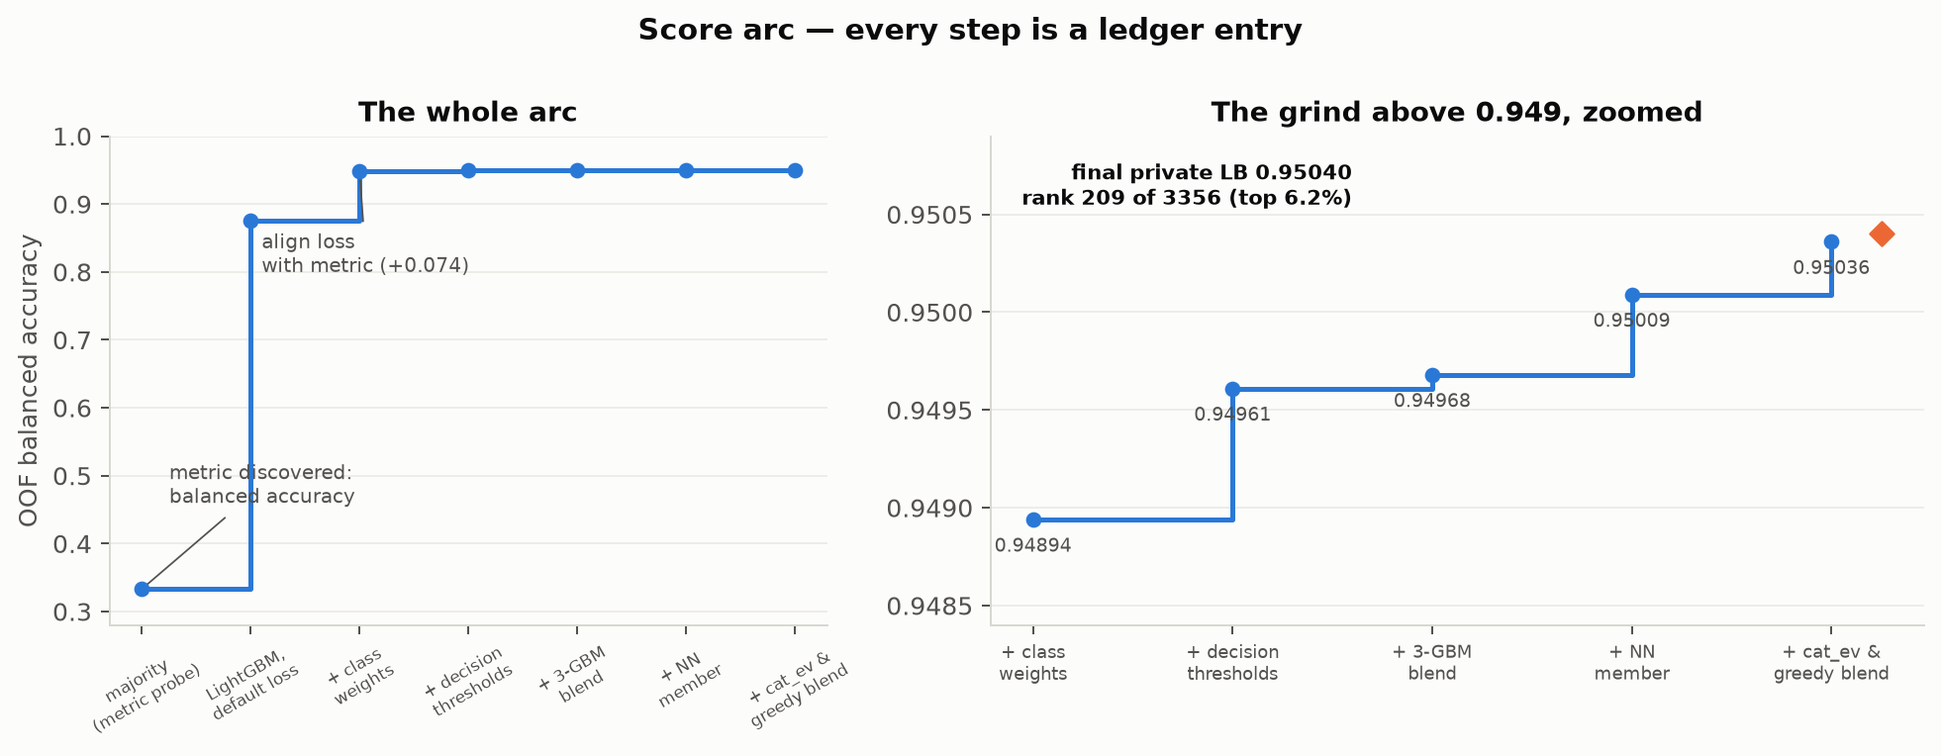
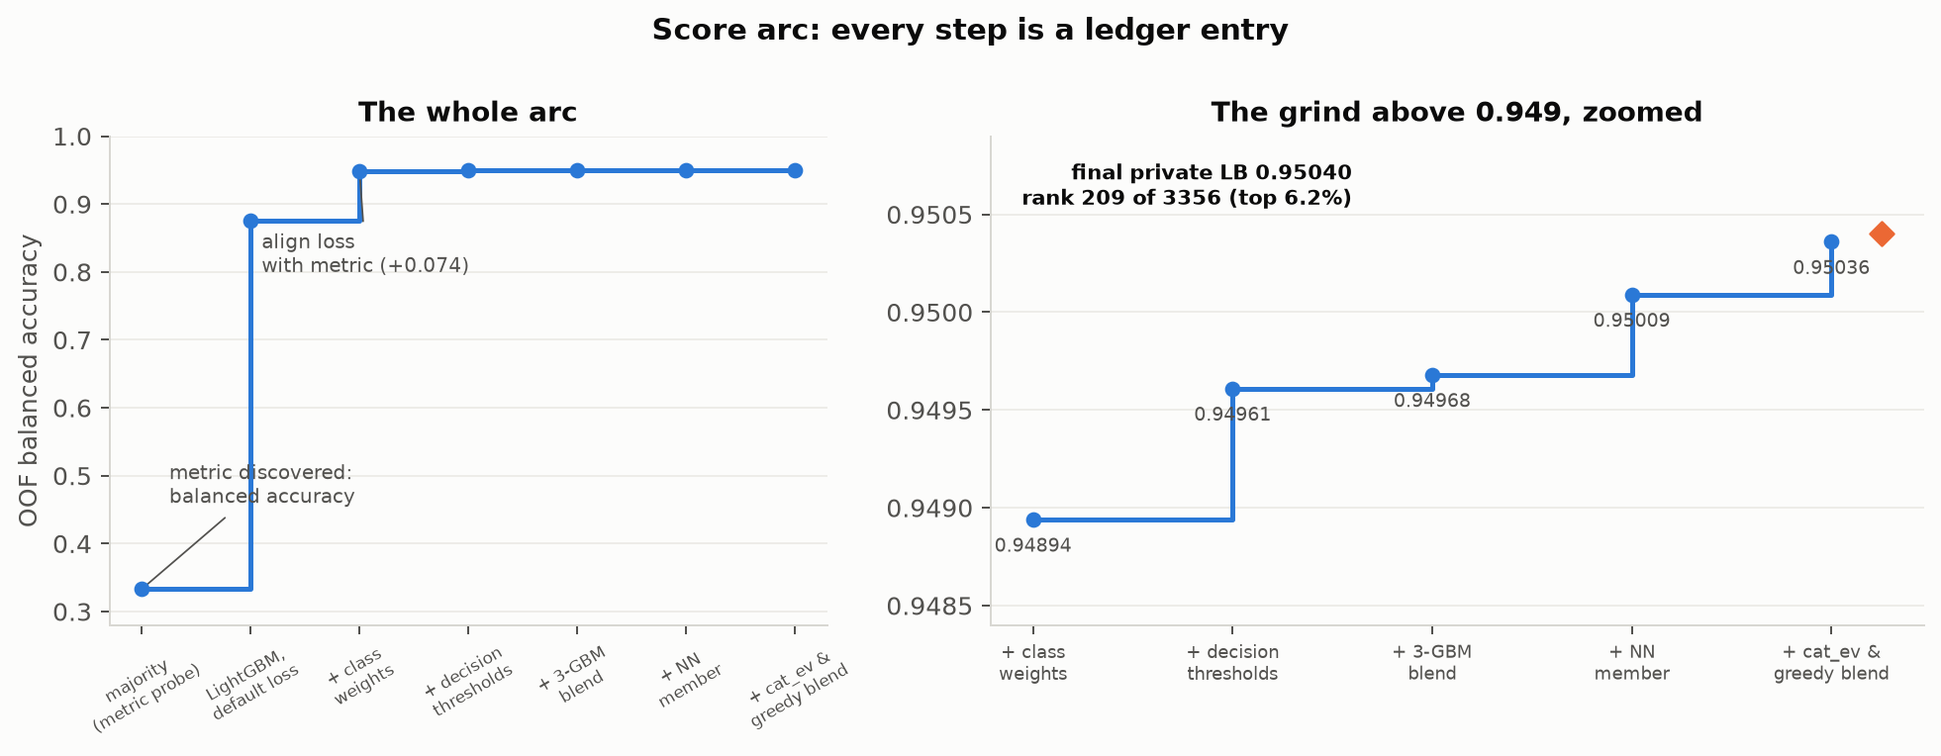
Tighten prose in README, WORKFLOW, and ledger

Changed region(s): [[0.3111, 0.0, 0.6843, 0.0602]]

diff --git a/src/make_figures.py b/src/make_figures.py
@@ -73,7 +73,7 @@ def score_arc():
     a2.set_title('The grind above 0.949, zoomed')
     a2.grid(axis='y', color='#ebeae6', lw=0.7, zorder=0)
 
-    fig.suptitle('Score arc — every step is a ledger entry', fontsize=12,
+    fig.suptitle('Score arc: every step is a ledger entry', fontsize=12,
                  fontweight='bold', y=1.0)
     fig.tight_layout()
     fig.savefig(ASSETS / 'score-arc.png', bbox_inches='tight')

diff --git a/README.md b/README.md
@@ -1,4 +1,4 @@
-# Kaggle Playground S6E7 — Predicting Student Health Risk
+# Kaggle Playground S6E7: Predicting Student Health Risk
 
 ![Kaggle](https://img.shields.io/badge/Kaggle-Playground_S6E7-20BEFF?logo=kaggle&logoColor=white)
 ![Private LB](https://img.shields.io/badge/private_LB-0.95040-2a78d6)
@@ -11,58 +11,59 @@ A hypothesis-driven run at [Kaggle Playground S6E7](https://www.kaggle.com/compe
 3-class classification of student health condition (86% / 8.4% / 5.8% class split, 690k rows,
 13 features with heavy missingness), scored by **balanced accuracy**.
 
-**Final: private LB 0.95040 — rank 209 of 3,356 teams (top 6.2%) — with every point of
-the score accounted for in an [experiment ledger](experiments.md).** Thirteen logged
-experiments, five falsified hypotheses, seven submissions, and a cross-validation setup
-that never missed the leaderboard, public or private, by more than 0.003. When the
-private leaderboard resolved, the final CV estimate (0.95036) was off by 0.00004, and
-the entry climbed 386 places past public-leaderboard chasers.
+**Final: private LB 0.95040, rank 209 of 3,356 teams (top 6.2%), with every point of the
+score accounted for in an [experiment ledger](experiments.md).** Thirteen logged
+experiments, five falsified hypotheses, seven submissions. Our cross-validation never
+missed either leaderboard by more than 0.003; at the private reveal it predicted the
+final score within 0.00004, and we climbed 386 places past teams tuned to the public
+board.
 
 ![Score arc](assets/score-arc.png)
 
 | Stage | Score | What earned it |
 |---|---|---|
-| Majority baseline (metric probe) | 0.333 | Discovered the metric is balanced accuracy, not accuracy |
+| Majority baseline (metric probe) | 0.333 | Discovered the real metric: balanced accuracy |
 | LightGBM, default loss | 0.875 | A GBM with sane defaults |
 | + class-weighted loss | 0.949 | **Align objective with metric** (+0.074, the biggest lever) |
-| + features / + tuning | 0.949 | Two measured zeros — honest redirects, not failures |
+| + features / + tuning | 0.949 | Two measured zeros that redirected effort |
 | + per-class thresholds | 0.9496 | **Align decision rule with metric** |
 | + cross-implementation blend | 0.9498 | Implementation diversity (CatBoost, HistGradientBoosting) |
 | + torch NN member | 0.9501 | Function-class diversity |
 | + CatBoost-native exact-value TE + greedy blend | **0.9505** | The one verified feature edge, encoded the tree-safe way |
-| Private leaderboard reveal | **0.95040** | Rank 209 of 3,356 — up 386 places on the shakeup, 0.00004 from the CV estimate |
+| Private leaderboard reveal | **0.95040** | Rank 209 of 3,356: up 386 places on the shakeup, 0.00004 from the CV estimate |
 
 ## The method
 
-**Probe the metric before trusting it.** The first submission predicted the majority class
-for every row — not as a throwaway, but as an experiment: plain accuracy predicted a 0.859
-score, balanced accuracy predicted exactly ⅓. It scored 0.33333. One submission falsified
-the wrong belief and reshaped the entire strategy (notebook 01, §9).
+**Probe the metric before trusting it.** The first submission predicted the majority
+class for every row. This was an experiment with two competing predictions: 0.859 under
+plain accuracy, ⅓ under balanced accuracy. It scored 0.33333. One cheap submission
+corrected our assumed metric and reshaped the strategy (notebook 01, §9).
 
-**Treat cross-validation as an instrument, and calibrate it.** One fixed 5-fold stratified
-assignment, persisted to disk and asserted identical in every later notebook. Every model
-reports out-of-fold balanced accuracy on those folds; the fold spread sets the noise floor
-(±0.0005) that decides what counts as a real improvement. The instrument passed its final
-test at the private-leaderboard reveal: 0.95040 against a CV estimate of 0.95036, while
-teams that had tuned against the public leaderboard fell past us on the way down.
+**Treat cross-validation as an instrument, and calibrate it.** We fixed one 5-fold
+stratified assignment, persisted it to disk, and asserted it identical in every later
+notebook. Every model reports out-of-fold balanced accuracy on those folds. We measured
+the noise floor (±0.0005) from the fold spread and used it as the bar for a real
+improvement. The CV held at the private-leaderboard reveal: 0.95040 against an estimate
+of 0.95036, while teams tuned against the public leaderboard dropped below us.
 
 ![CV vs LB calibration](assets/cv-lb-calibration.png)
 
 **Run everything as a ledger.** Every idea enters [experiments.md](experiments.md) as
-*hypothesis → one change → CV → keep/drop*. Keepers must clear the noise floor; drops are
-logged with the same care because a falsified hypothesis about this dataset is knowledge.
-The ledger's two zero-rows (feature engineering, hyperparameter tuning) redirected effort
-to where the score actually lived: alignment and diversity.
+*hypothesis → one change → CV → keep/drop*. Keepers must clear the noise floor. We log
+drops with the same care, because a falsified hypothesis about this dataset is
+knowledge. After feature engineering and hyperparameter tuning both measured zero, we
+spent the remaining effort on alignment and diversity.
 
-**Alignment before sophistication.** The two largest gains were not clever models — they
-were making the training loss (+0.074, class weights) and the decision rule (+0.0014,
-per-class thresholds fit on OOF probabilities) match the metric. By the final ensemble,
-the threshold search converged to exactly 1.0: alignment had migrated into the members.
+**Alignment before sophistication.** The two largest gains came from making the
+training loss (+0.074, class weights) and the decision rule (+0.0014, per-class
+thresholds fit on OOF probabilities) match the metric. By the final ensemble the
+threshold search converged to 1.0; the members themselves already carried the
+alignment.
 
-**Then buy diversity — and price it honestly.** Blending only pays when members make
+**Then buy diversity, and price it honestly.** Blending pays when members make
 different mistakes. The final greedy-selected committee weights quality *and*
-decorrelation; two "failed" models (a LightGBM hurt by naive target encoding, weight 0.01;
-a below-par NN, weight 0.15) still earn places on decorrelation value alone.
+decorrelation; two "failed" models (a LightGBM hurt by naive target encoding, weight
+0.01; a below-par NN, weight 0.15) kept their places on decorrelation value alone.
 
 ![Member correlations](assets/member-correlations.png)
 
@@ -70,32 +71,32 @@ a below-par NN, weight 0.15) still earn places on decorrelation value alone.
 
 | Notebook | One-line finding |
 |---|---|
-| [01 — EDA + baseline](notebooks/01-eda.ipynb) | `stress_level` nearly determines the minority classes; `bmi` missingness is itself a signal; the baseline probe exposes the real metric |
-| [02 — CV harness](notebooks/02-baseline-cv.ipynb) | The metric defines the model: class weights trade 5 points of majority recall for 12–15 on each minority — plain accuracy hates it, balanced accuracy pays +0.074 |
+| [01 — EDA + baseline](notebooks/01-eda.ipynb) | `stress_level` nearly determines the minority classes; `bmi` missingness is a signal; the baseline probe exposes the real metric |
+| [02 — CV harness](notebooks/02-baseline-cv.ipynb) | Class weights trade 5 points of majority recall for 12–15 on each minority; plain accuracy punishes the trade, balanced accuracy pays +0.074 |
 | [03 — Feature experiments](notebooks/03-features.ipynb) | Five hypotheses, zero keepers; naive imputation destroys 4 points by erasing the missingness signal |
-| [04 — Tuning, thresholds, ensemble](notebooks/04-final.ipynb) | Tuning loses to defaults, but its better-*ranked* probabilities win once thresholds are applied — compare models under the deployed decision rule |
-| [05 — More members, stacking](notebooks/05-stacking.ipynb) | Implementation diversity beats parameter search; diversity only pays above a quality floor |
-| [06 — NN + competitor intelligence](notebooks/06-headroom.ipynb) | Exact-value target encoding: −0.0044 on a tree, +0.0001 on an MLP — features and function classes are a joint hypothesis |
+| [04 — Tuning, thresholds, ensemble](notebooks/04-final.ipynb) | Tuning loses to defaults, but its better-*ranked* probabilities win once thresholds apply; compare models under the deployed decision rule |
+| [05 — More members, stacking](notebooks/05-stacking.ipynb) | Implementation diversity beats parameter search; diversity pays only above a quality floor |
+| [06 — NN + competitor intelligence](notebooks/06-headroom.ipynb) | Exact-value target encoding: −0.0044 on a tree, +0.0001 on an MLP; features and function classes are a joint hypothesis |
 | [07 — Final push](notebooks/07-final-push.ipynb) | CatBoost's ordered target statistics encode the same features *safely* (+0.0006, best single model); greedy selection prices an 8-member committee |
 
 ## Lessons the ledger paid for
 
-1. **Probe the metric before trusting it.** One "dumb" submission distinguished accuracy from balanced accuracy and reshaped the whole strategy.
-2. **Alignment beats sophistication.** Loss↔metric (class weights) and decision-rule↔metric (thresholds) earned more than every clever idea combined.
-3. **A CV you trust is the actual asset.** Fixed folds, OOF everything; seven submissions, never off by more than 0.003 on either leaderboard — and a 386-place climb when the private board punished public-LB overfitting.
-4. **Negative results are purchases.** Imputation −0.041 (destroys missingness signal), feature ladder 0, tuning ≤0 three times — each redirected effort with evidence.
-5. **Features and function classes are a joint hypothesis.** Exact-value target encoding: −0.0044 on LightGBM, +0.0001 on our MLP, **+0.0006 via CatBoost's ordered statistics** — same idea, three outcomes.
-6. **Diversity pays only above a quality floor.** Weak-but-different members were zeroed by every combiner; the committee prices contribution, not novelty.
+1. **Probe the metric before trusting it.** One cheap submission distinguished accuracy from balanced accuracy and reshaped the strategy.
+2. **Align with the metric before adding sophistication.** Loss↔metric (class weights) and decision-rule↔metric (thresholds) earned more than every clever idea combined.
+3. **A CV you trust is the asset.** Fixed folds, OOF everything; seven submissions within 0.003 on both leaderboards, and a 386-place climb when the private board punished public-LB overfitting.
+4. **Log negative results.** Imputation −0.041 (it erases the missingness signal), feature ladder 0, tuning ≤0 three times; each redirected effort with evidence.
+5. **Features and function classes are a joint hypothesis.** Exact-value target encoding: −0.0044 on LightGBM, +0.0001 on our MLP, **+0.0006 via CatBoost's ordered statistics**. Same idea, three outcomes.
+6. **Diversity pays only above a quality floor.** Every combiner zeroed the weak-but-different members; the committee prices contribution.
 
 ## How this was built
 
-This project was a deliberate experiment in AI-paired ML: I worked with Claude
-(via Claude Code) in an *explain-as-we-build* arrangement — Claude wrote the code and
-analysis and proposed hypotheses; I set the direction, questioned the reasoning at every
-milestone checkpoint, and made every go/no-go call, from the metric-probe strategy to
-which experiments were worth compute to when to stop. The workflow that made this
-productive — spec → plan → milestones, the ledger contract, artifact caching, parallel
-training runs, a competitor-scouting agent — is documented in [WORKFLOW.md](WORKFLOW.md).
+This project was also an experiment in AI-paired ML: I worked with Claude (via Claude
+Code) in an *explain-as-we-build* arrangement. Claude wrote the code and analysis and
+proposed hypotheses; I set the direction, questioned the reasoning at every milestone
+checkpoint, and made every go/no-go call, from the metric-probe strategy to which
+experiments were worth compute to when to stop. [WORKFLOW.md](WORKFLOW.md) documents
+the mechanics that made this productive: spec → plan → milestones, the ledger contract,
+artifact caching, parallel training runs, and a competitor-scouting agent.
 
 ## Reproduce
 
@@ -113,7 +114,7 @@ uv run python src/make_figures.py         # regenerate README figures
 Repo layout:
 
 ```
-notebooks/01..07     the analysis, in order — written to be read
+notebooks/01..07     the analysis, in reading order
 experiments.md       the complete hypothesis ledger (E1–E13)
 src/                 training scripts for the heavy jobs + figure generation
 docs/superpowers/    design specs and implementation plans (process artifacts)

diff --git a/WORKFLOW.md b/WORKFLOW.md
@@ -1,19 +1,19 @@
 # How This Project Was Run
 
-This repo doubles as a case study in AI-paired ML work. This document describes the
-operating system of the collaboration — what I did, what Claude did, and the process
-mechanics that made a two-day, seven-notebook competition run produce a score where
-every point is traceable to a logged decision.
+This repo doubles as a case study in AI-paired ML work. This document describes how
+the collaboration ran: what I did, what Claude did, and the process mechanics behind a
+two-day, seven-notebook competition run in which every point of the final score traces
+to a logged decision.
 
 ## The shape of the collaboration
 
 I ran this **explain-as-we-build**: Claude wrote and executed all code, and every step
-carried the reasoning — why this CV scheme, what the alternatives were, how to choose.
-My job was direction and judgment: I chose the format (over a "you code, I coach"
-alternative we considered first), set the accelerated timeline, questioned the reasoning
-at each milestone checkpoint ("how did we get so high in one go?", "what's our
-competitors' edge?"), and made every go/no-go call — including when to extend past the
-original plan and when to stop.
+carried the reasoning: why this CV scheme, what the alternatives were, how to choose.
+My job was direction and judgment. I chose the format (over a "you code, I coach"
+alternative we considered first), set the accelerated timeline, questioned the
+reasoning at each milestone checkpoint ("how did we get so high in one go?", "what's
+our competitors' edge?"), and made every go/no-go call, including when to extend past
+the original plan and when to stop.
 
 The notebooks read as lessons because that's what they were: the deliverable was
 understanding first, leaderboard position second. The final rank (209 of 3,356 on the
@@ -26,61 +26,62 @@ Before any data touched a model, we wrote a [design spec](docs/superpowers/specs
 an [implementation plan](docs/superpowers/plans/) with explicit milestones, each ending
 in a real Kaggle submission:
 
-1. **EDA + naive baseline** — including the metric-probe submission that falsified our
+1. **EDA + naive baseline**, including the metric-probe submission that falsified our
    assumed metric on day one
-2. **CV harness first** — the trust anchor every later number depends on
+2. **CV harness first**, the trust anchor for every later number
 3. **Feature engineering as logged experiments**
 4. **Tuning, decision thresholds, ensembling**
 5. – 7. **Extensions**, each re-planned when evidence justified more work
 
-Milestone boundaries were checkpoints: results summarized, questions answered, next
-move agreed. The plan was a living document — when the metric turned out to be balanced
-accuracy instead of accuracy, the spec, plan, and strategy were amended the same hour.
+At each milestone boundary we summarized results, answered my questions, and agreed on
+the next move. We treated the plan as a living document: when the metric turned out to
+be balanced accuracy instead of accuracy, we amended the spec, plan, and strategy the
+same hour.
 
 ## The experiment-ledger contract
 
 Every modeling idea in [experiments.md](experiments.md) follows one contract:
 
-- **State the hypothesis first**, with a mechanism — an experiment without a "why"
-  is a lottery ticket.
+- **State the hypothesis first**, with a mechanism. An experiment we can't explain is
+  a lottery ticket.
 - **Change one thing.** Same folds (persisted fold assignment, asserted identical in
   every notebook), same seed, same model config as the baseline.
-- **Keep only if ΔCV ≥ +0.0005** — the OOF noise floor measured from fold spread in
-  notebook 02. Below that is fold luck, and a pile of lucky keeps is how you overfit
-  your own CV.
-- **Drops are logged with the same care.** The ledger's most valuable rows are
-  negative: imputation −0.041, missingness flags +0.0002, tuning ≤ 0 three times.
+- **Keep only if ΔCV ≥ +0.0005**, the OOF noise floor measured from fold spread in
+  notebook 02. Anything smaller is fold luck, and a pile of lucky keeps overfits your
+  own CV.
+- **Log drops with the same care.** The most valuable rows in the ledger are negative:
+  imputation −0.041, missingness flags +0.0002, tuning ≤ 0 three times.
 
 ## Engineering patterns that made it work
 
 - **Artifact caching everywhere.** Every heavy training run persists its out-of-fold
   and test probabilities to `artifacts/`; notebooks load caches when present. A crash
-  after 3 hours of CatBoost (it happened) costs minutes, not hours, and the final
-  8-member blend assembles from cache in seconds.
+  after 3 hours of CatBoost (it happened) costs minutes instead of hours, and the
+  final 8-member blend assembles from cache in seconds.
 - **A side-venv for the awkward dependency.** PyTorch has no wheels for this machine
   (Intel Mac + Python 3.13), so torch jobs run in a pinned Python 3.12 venv
   (`torch 2.2.2` + a coherent 2024-era stack) as scripts, while notebooks stay in the
   main environment and consume the artifacts.
-- **Parallel background training.** Long jobs ran as background processes —
-  at one point CatBoost-with-target-statistics and a RealMLP were training while a
-  scouting agent read competitor kernels, all concurrently.
+- **Parallel background training.** Long jobs ran as background processes; at one
+  point CatBoost-with-target-statistics and a RealMLP were training while a scouting
+  agent read competitor kernels.
 - **Competitor intelligence as a first-class experiment source.** An agent dissected
-  the six most-voted public kernels into *score-evidenced* techniques (not folklore).
-  Its top finding produced our best single model; its "verified" feature edge also
-  cost us 4 points when extrapolated to the wrong function class — both outcomes
-  went into the ledger.
+  the six most-voted public kernels into score-evidenced techniques. Its top finding
+  produced our best single model; its "verified" feature edge cost us 4 points when we
+  extrapolated it to the wrong function class. Both outcomes went into the ledger.
 
 ## What transfers to real ML work
 
-Nothing here is Kaggle-specific:
+Each of these habits applies beyond Kaggle:
 
-- **Probe your metric** before optimizing it — cheap experiments that distinguish
+- **Probe your metric** before optimizing it. Cheap experiments that distinguish
   competing beliefs beat assumptions.
 - **Build the validation instrument before the models**, and calibrate it against
-  reality early (our CV predicted the leaderboard within ±0.003 for all 7 submissions).
-- **Ledgers over vibes.** Hypothesis-driven changes with a pre-committed keep
-  threshold prevent both random tweaking and self-deception.
-- **The decision rule is a separate object from the model** — align both with the
-  metric you're actually judged on.
-- **Ensemble members are priced by contribution, not solo score** — and diversity
-  only pays above a quality floor.
+  reality early (our CV predicted both leaderboards within ±0.003 for all 7
+  submissions).
+- **Keep a ledger.** Hypothesis-driven changes with a pre-committed keep threshold
+  prevent random tweaking and self-deception.
+- **Treat the decision rule as a separate object from the model**, and align both
+  with the metric you're judged on.
+- **Price ensemble members by contribution rather than solo score.** Diversity pays
+  only above a quality floor.

diff --git a/experiments.md b/experiments.md
@@ -13,7 +13,7 @@ Keep-rule: an experiment is kept only if ΔCV ≥ +0.0005 (≈ OOF-level standar
 | E3 | ordinal encoding of 3 ordered cats lets one threshold express "≥ medium" | stress/sleep_quality/activity → ordered ints | 0.94895 | +0.00001 | — | drop (confirmed-null: 3-level cats fully covered by native handling) |
 | E4 | explicit interaction axes shortcut tree-approximated conjunctions (EDA §4) | 5 ratio/product features (stress×sleep, activity×steps, …) | 0.94916 | +0.00022 | 0.94942 | drop (best of ladder, still below bar; booster already approximates) |
 
-**Milestone 3 conclusion:** zero keepers — baseline features carry forward. Signal is fully exposed to the GBM; remaining gains must come from the model side (trees cap, tuning, per-class thresholds, ensembling). Note: CV↔LB gap flipped sign (+0.0023 → −0.0003), so treat the gap as noise ≈ ±0.003, decide on CV only.
+**Milestone 3 conclusion:** zero keepers; baseline features carry forward. Signal is fully exposed to the GBM; remaining gains must come from the model side (trees cap, tuning, per-class thresholds, ensembling). Note: CV↔LB gap flipped sign (+0.0023 → −0.0003), so treat the gap as noise ≈ ±0.003, decide on CV only.
 
 ## Milestone 4 (model-side levers; CV numbers are thresholded where noted)
 
@@ -27,7 +27,7 @@ Keep-rule: an experiment is kept only if ΔCV ≥ +0.0005 (≈ OOF-level standar
 | T6 | blend + re-fit thresholds | weights + multipliers on OOF | **0.94968** | +0.00074 | **0.94946** | **final A** |
 | T7 | robustness hedge | seed-avg LGBM + thresholds | 0.94961 | — | 0.94918 | final B |
 
-**Milestone 4 conclusion:** score arc 0.333 → 0.875 (GBM) → 0.949 (loss↔metric alignment) → 0.9497 (decision-rule alignment + blend). Nearly all points came from alignment, not sophistication. Final public LB 0.94946 (top ≈ 0.953).
+**Milestone 4 conclusion:** score arc 0.333 → 0.875 (GBM) → 0.949 (loss↔metric alignment) → 0.9497 (decision-rule alignment + blend). Alignment earned nearly all of the points. Final public LB 0.94946 (top ≈ 0.953).
 
 ## Milestone 5 (extension: diversity + stacking)
 
@@ -61,7 +61,7 @@ Keep-rule: an experiment is kept only if ΔCV ≥ +0.0005 (≈ OOF-level standar
 | E10 | true RealMLP reaches the published 0.9506 frontier | pytabkit RealMLP-TD, 6 epochs CPU, prior-corrected | 0.94731 | — | — | short of published (CPU budget); greedy blend weight 0 — quality floor law confirmed again |
 | E11 | HGB (blend weight 0.5) rewards tuning | 9-config grid, winner max_leaf_nodes=23, l2=1 | 0.94963 | +0.00007 | — | below bar; third "defaults were fine." Kept in pool at zero cost |
 | E12 | seed-averaging stabilizes the noisiest member | nn_te × seeds 42/1/2 | 0.94825 avg | — | — | steadier member for the blend |
-| E13 | greedy selection prices 8 members better than a grid | Caruana w/ replacement, 80 rounds | **0.95036** | +0.00027 | **0.95048** | **final; public rank ~339/2192 at the time.** Thresholds converged to 1.0 — alignment migrated into the members |
+| E13 | greedy selection prices 8 members better than a grid | Caruana w/ replacement, 80 rounds | **0.95036** | +0.00027 | **0.95048** | **final; public rank ~339/2192 at the time.** Thresholds converged to 1.0; the members already carried the alignment |
 
 **Final standing: public LB 0.95048 (CV 0.95036). Arc: 0.333 → 0.875 → 0.949 → 0.9497 → 0.9498 → 0.9501 → 0.9505.**
 
@@ -77,4 +77,4 @@ Keep-rule: an experiment is kept only if ΔCV ≥ +0.0005 (≈ OOF-level standar
 | 06 nn blend | 0.95009 | 0.95006 | 0.95002 |
 | 07 grand blend | 0.95036 | 0.95048 | **0.95040** |
 
-**Final: private LB 0.95040 — rank 209 of 3356 (top 6.2%), up 386 places from public rank 595.** CV predicted the private score within 0.00004. The shakeup the competitor scan warned about (shared-file public blends carrying S6E6-style private-split risk) happened: the public blends above us fell, the CV-anchored entry rose.
+**Final: private LB 0.95040, rank 209 of 3356 (top 6.2%), up 386 places from public rank 595.** CV predicted the private score within 0.00004. The shakeup the competitor scan warned about (shared-file public blends carrying S6E6-style private-split risk) happened: the public blends above us fell and we rose.
